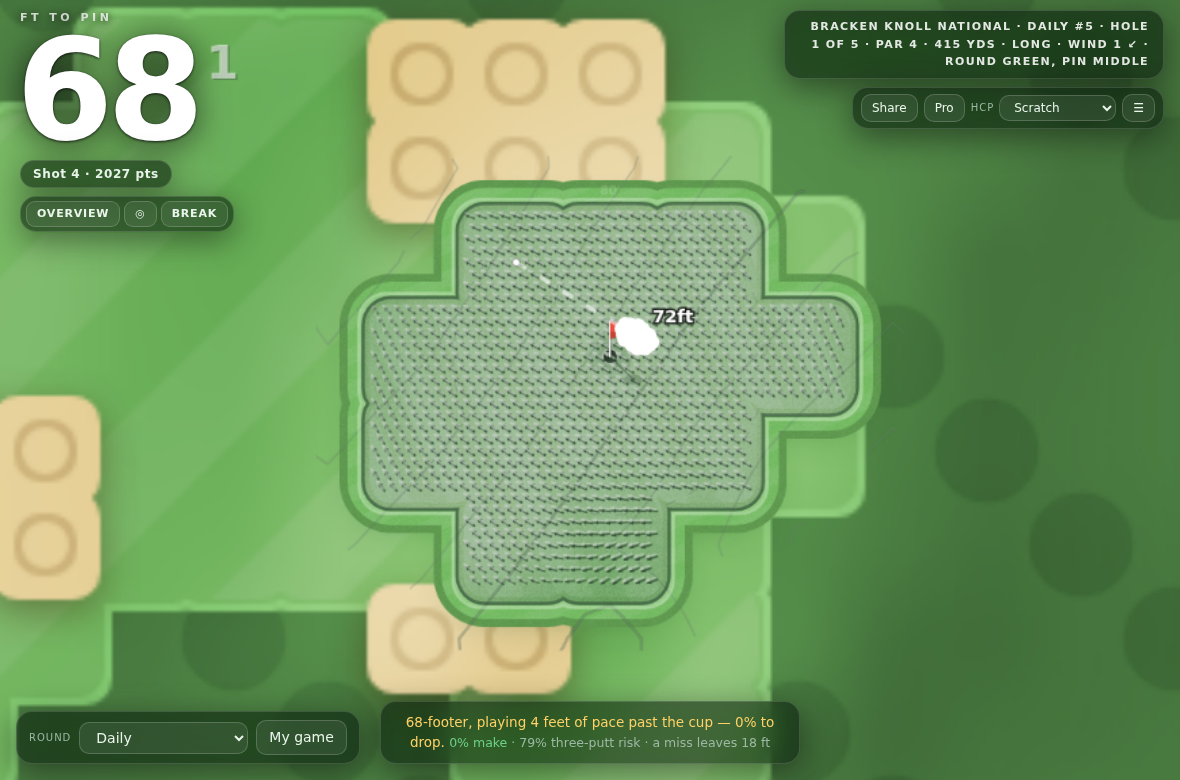
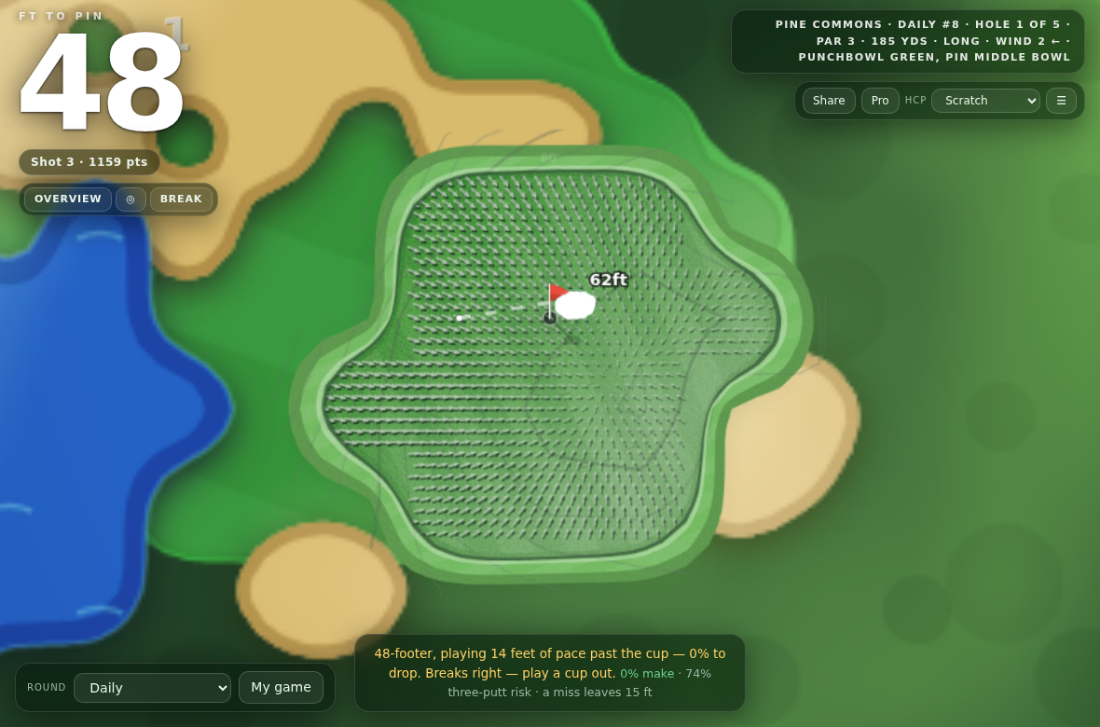
Light, the reveal as a beat, and the book on the same contours
The remaining three waves of the art-and-UX push, shipped together because
they share one idea: every surface answers to the same light and the same
geometry, and every verdict arrives as a moment instead of a diagram.

LIGHT. The hillshade stops being a grey depth map: lit faces grade warm (red
leads, blue trails) and shaded faces grade cool, in the same overlay pass, with
flat ground still untouched at exact neutral. Trees stopped being polka dots —
they draw in PASSES now, every cast shadow first, then every canopy, then the
highlights, so a stand of trees fuses into woodland with one shared shadow
edge. The shadows fall along the same LIGHT vector the hillshade answers to,
not straight down, and the canopy highlight sits on the sun side.

THE REVEAL. The verdict heatmap was the last per-tile mosaic in the game —
whole squares of red and green popping in as the sweep crossed them. It is now
one pixel per tile upscaled with smoothing (the cone's bilinear trick), swept
by a clean clipped circle, so the field reads as washes over the ground. And
the markers land as an argument rather than a dump: your ✕ punches in first,
the caddie's ring answers it a beat later with a ripple that gets out of the
way. A new 'markers' fx stage carries the sequence; skipping works as before.

THE BOOK. greenSilhouette — the green book's own copy of the tile-blob union —
now calls the same contour engine as the course view, on the same 'green'
[…]

diff --git a/src/ui/paint.js b/src/ui/paint.js
@@ -197,26 +197,47 @@ export function renderCourseArt(course) {
   // mown ground before the canopies so trees keep their own shadows
   paintCourseRelief(ctx, course, off.width, off.height);
 
-  // tree canopies: clustered discs with seeded jitter, shadow, and highlight
+  // Trees, in PASSES rather than per tile: every cast shadow first, then every
+  // canopy body, then every highlight. Interleaved per-tile drawing put each
+  // tree's shadow ON TOP of its neighbour's canopy, so a stand of trees read
+  // as separate polka dots; layered, adjacent canopies fuse into woodland with
+  // one shared shadow edge. The shadows fall along the same light the
+  // hillshade answers to, not straight down.
+  const canopies = [];
   for (let y = 0; y < course.height; y++) {
     for (let x = 0; x < course.width; x++) {
       if (cellAt(course, x, y) !== TREES) continue;
       const j = ((x * 2654435761 + y * 40503) >>> 16) % 7;
-      const cx = (x + 0.5) * TILE + (j % 3) - 1;
-      const cy = (y + 0.5) * TILE + (j % 2) * 2 - 1;
-      const r = TILE * (0.52 + (j % 4) * 0.045);
-      ctx.save();
-      ctx.shadowColor = 'rgba(0,0,0,0.35)';
-      ctx.shadowBlur = 6;
-      ctx.shadowOffsetY = 4;
-      ctx.fillStyle = INK.canopy;
-      ctx.beginPath(); ctx.arc(cx, cy, r, 0, Math.PI * 2); ctx.fill();
-      ctx.restore();
-      ctx.fillStyle = INK.canopyLight;
-      ctx.beginPath(); ctx.arc(cx - r * 0.25, cy - r * 0.3, r * 0.55, 0, Math.PI * 2); ctx.fill();
-      ctx.fillStyle = INK.canopyDark;
-      ctx.beginPath(); ctx.arc(cx + r * 0.3, cy + r * 0.32, r * 0.4, 0, Math.PI * 2); ctx.fill();
+      canopies.push({
+        cx: (x + 0.5) * TILE + (j % 3) - 1,
+        cy: (y + 0.5) * TILE + (j % 2) * 2 - 1,
+        r: TILE * (0.52 + (j % 4) * 0.045),
+      });
     }
+  }
+  const sx = -LIGHT.x * 5; // the sun sits at LIGHT; shadows fall away from it
+  const sy = -LIGHT.y * 5;
+  ctx.fillStyle = 'rgba(10, 26, 14, 0.38)';
+  for (const c of canopies) {
+    ctx.beginPath();
+    ctx.arc(c.cx + sx, c.cy + sy, c.r * 1.04, 0, Math.PI * 2);
+    ctx.fill();
+  }
+  ctx.fillStyle = INK.canopy;
+  for (const c of canopies) {
+    ctx.beginPath();
+    ctx.arc(c.cx, c.cy, c.r, 0, Math.PI * 2);
+    ctx.fill();
+  }
+  for (const c of canopies) {
+    ctx.fillStyle = INK.canopyLight;
+    ctx.beginPath();
+    ctx.arc(c.cx + LIGHT.x * c.r * 0.32, c.cy + LIGHT.y * c.r * 0.32, c.r * 0.5, 0, Math.PI * 2);
+    ctx.fill();
+    ctx.fillStyle = INK.canopyDark;
+    ctx.beginPath();
+    ctx.arc(c.cx - LIGHT.x * c.r * 0.36, c.cy - LIGHT.y * c.r * 0.36, c.r * 0.36, 0, Math.PI * 2);
+    ctx.fill();
   }
 
   // vignette: the property fades into the treeline
@@ -262,10 +283,14 @@ function paintCourseRelief(ctx, course, w, h) {
       const grade = (p.x * LIGHT.x + p.y * LIGHT.y) * FT_PER_PULL / FT_PER_TILE;
       const v = Math.max(-1, Math.min(1, grade / COURSE_SHADE_FULL));
       const o = (j * bw + i) * 4;
-      const grey = Math.round(128 + 110 * v);
-      img.data[o] = grey;
-      img.data[o + 1] = grey;
-      img.data[o + 2] = grey;
+      // Warm light, cool shade — not grey. In `overlay`, a channel above 128
+      // brightens and below darkens, so pushing red hardest on lit faces and
+      // letting blue linger in the shade grades the land like late sun instead
+      // of like a depth map. Neutral ground stays exactly 128: a flat hole is
+      // still untouched.
+      img.data[o] = Math.round(128 + 124 * v);
+      img.data[o + 1] = Math.round(128 + 106 * v);
+      img.data[o + 2] = Math.round(128 + (v > 0 ? 64 : 92) * v);
       img.data[o + 3] = 255;
     }
   }
@@ -479,12 +504,15 @@ function sampleSlope(f, x, y) {
 
 /** The green's blob silhouette, grown by `grow` world pixels — the same shape
  *  language renderCourseArt uses, so the two layers register exactly. */
-function greenSilhouette(path, course, grow, r) {
-  for (let y = 0; y < course.height; y++) {
-    for (let x = 0; x < course.width; x++) {
-      if (cellAt(course, x, y) !== GREEN) continue;
-      path.roundRect(x * TILE - grow, y * TILE - grow, TILE + grow * 2, TILE + grow * 2, r);
-    }
+function greenSilhouette(path, course, grow) {
+  // The same contour engine as the course view, on the same 'green' wobble
+  // stream — so the book's collar and the course's green are the SAME shape at
+  // two magnifications, not two approximations that disagree at the seam. The
+  // old corner-radius argument died with the tile blobs.
+  for (const loop of terrainLoops(course, (t) => t === GREEN, { grow, name: 'green', tilePx: TILE })) {
+    path.moveTo(loop[0][0], loop[0][1]);
+    for (let i = 1; i < loop.length; i++) path.lineTo(loop[i][0], loop[i][1]);
+    path.closePath();
   }
 }
 
@@ -755,15 +783,15 @@ export function renderGreenArt(course, rect, { breaks = 'lines' } = {}) {
   // Silhouettes. Each cut is a UNION of grown tile blobs, so its rim has to be
   // painted as the difference between two unions — stroking the path itself
   // would outline every tile inside the shape, not the shape.
-  const shape = (grow, r) => {
+  const shape = (grow) => {
     const p = new Path2D();
-    greenSilhouette(p, course, grow, r);
+    greenSilhouette(p, course, grow);
     return p;
   };
-  const collarLip = shape(COLLAR_GROW, 13);
-  const collar = shape(COLLAR_GROW - LIP, 13 - LIP);
-  const surfaceLip = shape(GREEN_GROW, 7);
-  const surface = shape(GREEN_GROW - LIP * 0.8, 7 - LIP * 0.8);
+  const collarLip = shape(COLLAR_GROW);
+  const collar = shape(COLLAR_GROW - LIP);
+  const surfaceLip = shape(GREEN_GROW);
+  const surface = shape(GREEN_GROW - LIP * 0.8);
 
   // --- collar / fringe: a shorter, cross-mown ring so the boundary reads -----
   ctx.fillStyle = GINK.collarRim;
@@ -1136,9 +1164,9 @@ function bookCanvas(geo) {
   return { off, ctx };
 }
 
-function silhouette(course, grow, r) {
+function silhouette(course, grow) {
   const p = new Path2D();
-  greenSilhouette(p, course, grow, r);
+  greenSilhouette(p, course, grow);
   return p;
 }
 

diff --git a/src/ui/caddie.js b/src/ui/caddie.js
@@ -503,6 +503,7 @@ function clearPushIn() {
 const SWEEP_MS = 600;
 let fx = null; // {stage:'flight'|'sweep', t0, p, from, to, dur}
 let fxRaf = 0;
+const MARKERS_MS = 520;
 
 function startShotFx(from, to, opts = {}) {
   cancelFx();
@@ -527,8 +528,15 @@ function fxTick() {
       fx.p = 0;
       showStamp();
     }
-  } else {
+  } else if (fx.stage === 'sweep') {
     fx.p = Math.min(1, el / SWEEP_MS);
+    if (fx.p >= 1) {
+      fx = { stage: 'markers', t0: performance.now(), p: 0 };
+    }
+  } else {
+    // markers: your pick lands first, the optimal answers it — the argument
+    // of the reveal played as a beat, not dumped as a diagram
+    fx.p = Math.min(1, el / MARKERS_MS);
     if (fx.p >= 1) fx = null;
   }
   refresh();
@@ -895,38 +903,85 @@ function drawReveal() {
     drawFlight();
     return;
   }
-  // stage 2: heatmap sweeps radially outward from the lie it was hit from
-  const sweep = fx && fx.stage === 'sweep' ? fx.p : 1;
+  // stage 2: heatmap sweeps radially outward from the lie it was hit from.
+  // The heat itself is one pixel per tile, upscaled with smoothing — the same
+  // bilinear trick as the cone — so the verdict field reads as gradients over
+  // the ground instead of as a mosaic of squares, and the sweep edge is a
+  // clean clipped circle instead of a popcorn of whole tiles.
+  const sweep = fx && fx.stage === 'sweep' ? fx.p : fx && fx.stage === 'flight' ? 0 : 1;
   const origin = reveal.from ?? ball;
-  const limit = sweep * (reveal.maxHeat ?? Infinity);
-  // heatmap: green = smart aim, red = stroke-burning aim
+  if (!reveal.heatCanvas) reveal.heatCanvas = buildHeatCanvas(reveal.heat, course);
   beginWorld();
-  const min = Math.min(...reveal.heat.map((c) => c.e));
-  for (const c of reveal.heat) {
-    if (sweep < 1 && Math.hypot(c.x - origin.x, c.y - origin.y) > limit) continue;
-    const badness = Math.min(1, (c.e - min) / 1.2);
-    ctx.fillStyle = `rgba(${Math.round(80 + 175 * badness)}, ${Math.round(200 - 140 * badness)}, 80, 0.30)`;
-    ctx.fillRect(c.x * TILE, c.y * TILE, TILE, TILE);
+  ctx.save();
+  if (sweep < 1) {
+    const limit = sweep * (reveal.maxHeat ?? 40) * TILE;
+    ctx.beginPath();
+    ctx.arc((origin.x + 0.5) * TILE, (origin.y + 0.5) * TILE, Math.max(1, limit), 0, Math.PI * 2);
+    ctx.clip();
   }
+  ctx.imageSmoothingEnabled = true;
+  ctx.imageSmoothingQuality = 'high';
+  ctx.drawImage(reveal.heatCanvas, 0, 0, course.width * TILE, course.height * TILE);
   ctx.restore();
-  // your pick ✕
-  const { x: yx, y: yy } = toScreen(reveal.your);
-  ctx.strokeStyle = '#ffd166'; ctx.lineWidth = 3;
-  ctx.beginPath();
-  ctx.moveTo(yx - 8, yy - 8); ctx.lineTo(yx + 8, yy + 8);
-  ctx.moveTo(yx + 8, yy - 8); ctx.lineTo(yx - 8, yy + 8);
-  ctx.stroke(); ctx.lineWidth = 1;
-  // optimal ★ (drawn as a ringed dot)
-  const { x: ox, y: oy } = toScreen(reveal.score.optimal);
-  ctx.strokeStyle = '#6fd08c'; ctx.lineWidth = 3;
-  ctx.beginPath(); ctx.arc(ox, oy, 9, 0, Math.PI * 2); ctx.stroke();
-  ctx.fillStyle = '#6fd08c';
-  ctx.beginPath(); ctx.arc(ox, oy, 3, 0, Math.PI * 2); ctx.fill();
-  ctx.lineWidth = 1;
+  ctx.restore();
+  // the argument, in sequence: your pick lands, then the optimal answers it
+  const mk = fx && fx.stage === 'markers' ? fx.p : fx ? 0 : 1;
+  const yourT = Math.min(1, mk / 0.4);
+  const optT = Math.max(0, Math.min(1, (mk - 0.35) / 0.65));
+  if (yourT > 0) {
+    const { x: yx, y: yy } = toScreen(reveal.your);
+    const k = 1 + (1 - easeOutCubic(yourT)) * 1.6; // punches in from large
+    ctx.globalAlpha = yourT;
+    ctx.strokeStyle = '#ffd166'; ctx.lineWidth = 3;
+    ctx.beginPath();
+    ctx.moveTo(yx - 8 * k, yy - 8 * k); ctx.lineTo(yx + 8 * k, yy + 8 * k);
+    ctx.moveTo(yx + 8 * k, yy - 8 * k); ctx.lineTo(yx - 8 * k, yy + 8 * k);
+    ctx.stroke(); ctx.lineWidth = 1;
+    ctx.globalAlpha = 1;
+  }
+  if (optT > 0) {
+    const { x: ox, y: oy } = toScreen(reveal.score.optimal);
+    const e = easeOutCubic(optT);
+    ctx.globalAlpha = optT;
+    ctx.strokeStyle = '#6fd08c'; ctx.lineWidth = 3;
+    ctx.beginPath(); ctx.arc(ox, oy, 9, 0, Math.PI * 2); ctx.stroke();
+    ctx.fillStyle = '#6fd08c';
+    ctx.beginPath(); ctx.arc(ox, oy, 3, 0, Math.PI * 2); ctx.fill();
+    ctx.lineWidth = 1;
+    if (optT < 1) {
+      // a ripple that announces the answer, then gets out of the way
+      ctx.globalAlpha = (1 - e) * 0.8;
+      ctx.lineWidth = 2;
+      ctx.beginPath(); ctx.arc(ox, oy, 9 + e * 16, 0, Math.PI * 2); ctx.stroke();
+      ctx.lineWidth = 1;
+    }
+    ctx.globalAlpha = 1;
+  }
   // where the sampled ball actually went
   if (reveal.landing) paintBall(toScreen(reveal.landing));
   // the post-shot note now lands as the DOM stamp + glass chip (showStamp),
   // not the painted callout card
+}
+
+/** The reveal heat as pixels: one per tile, alpha baked in, drawn upscaled. */
+function buildHeatCanvas(heat, c) {
+  const cv = document.createElement('canvas');
+  cv.width = c.width;
+  cv.height = c.height;
+  const g = cv.getContext('2d');
+  const img = g.createImageData(c.width, c.height);
+  let min = Infinity;
+  for (const cell of heat) min = Math.min(min, cell.e);
+  for (const cell of heat) {
+    const badness = Math.min(1, (cell.e - min) / 1.2);
+    const o = (cell.y * c.width + cell.x) * 4;
+    img.data[o] = Math.round(80 + 175 * badness);
+    img.data[o + 1] = Math.round(200 - 140 * badness);
+    img.data[o + 2] = 80;
+    img.data[o + 3] = 82; // ~0.32, baked in so the upscale carries it
+  }
+  g.putImageData(img, 0, 0);
+  return cv;
 }
 
 function windLabel() {
